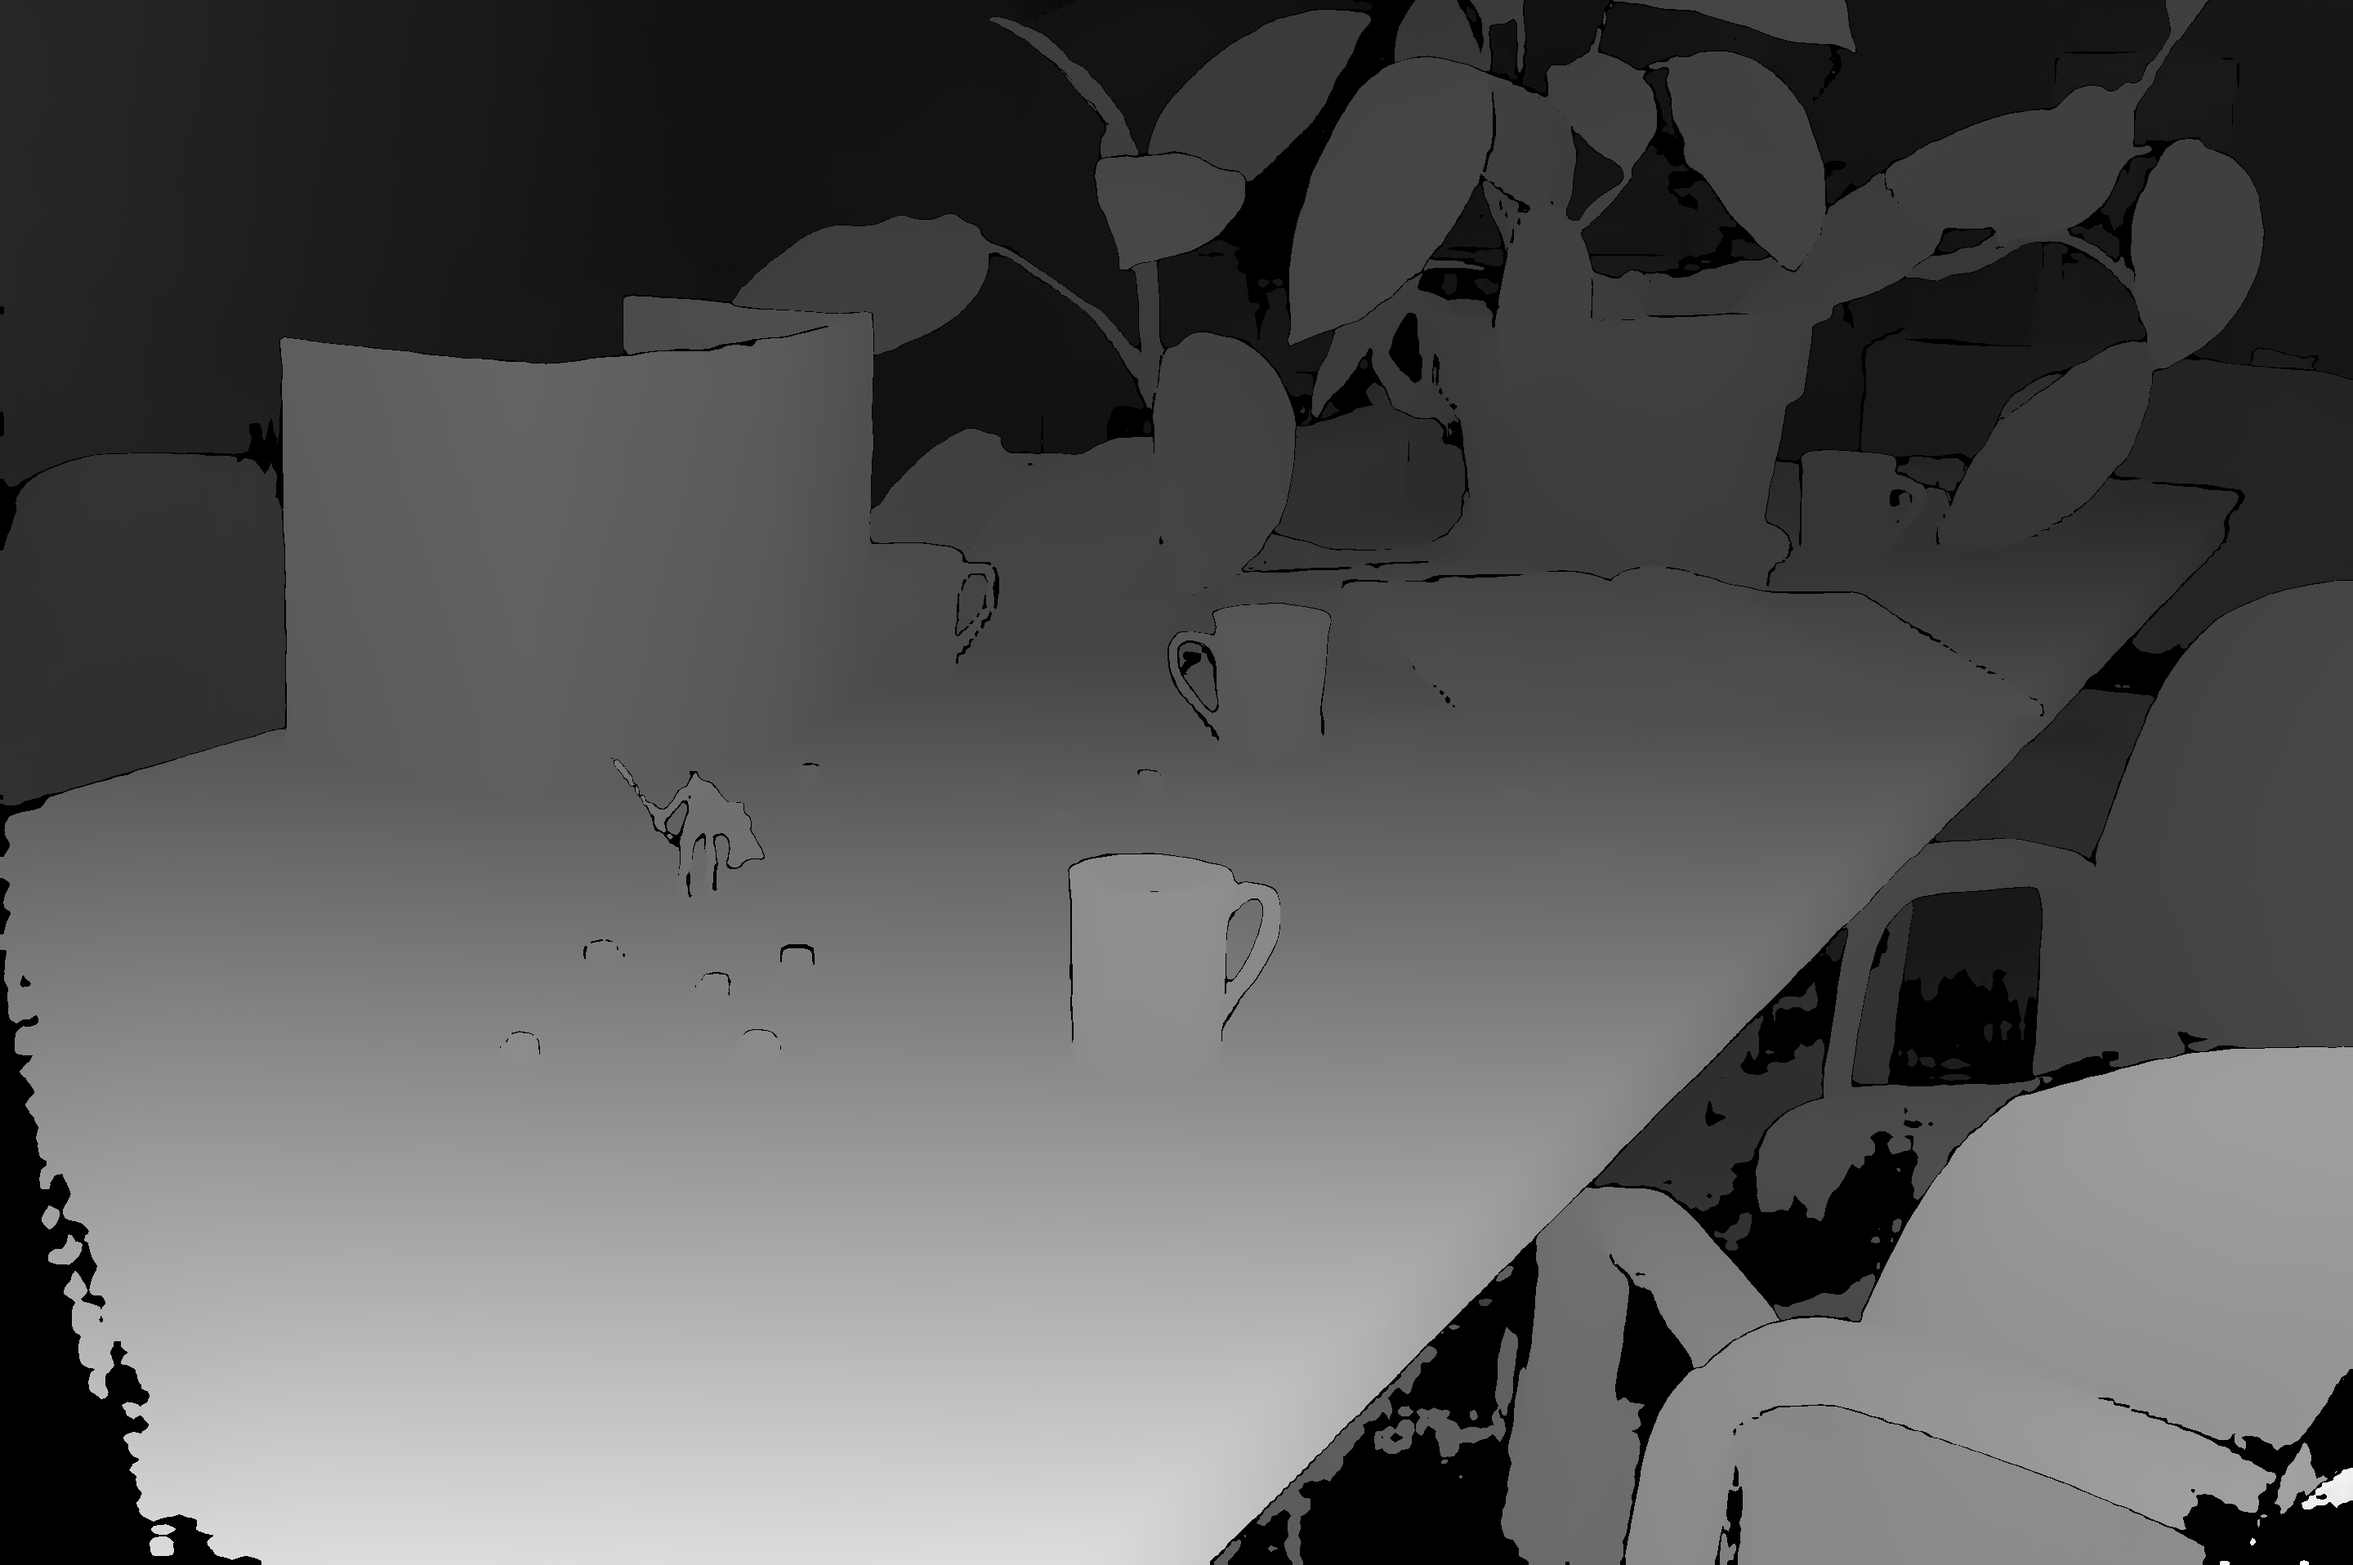
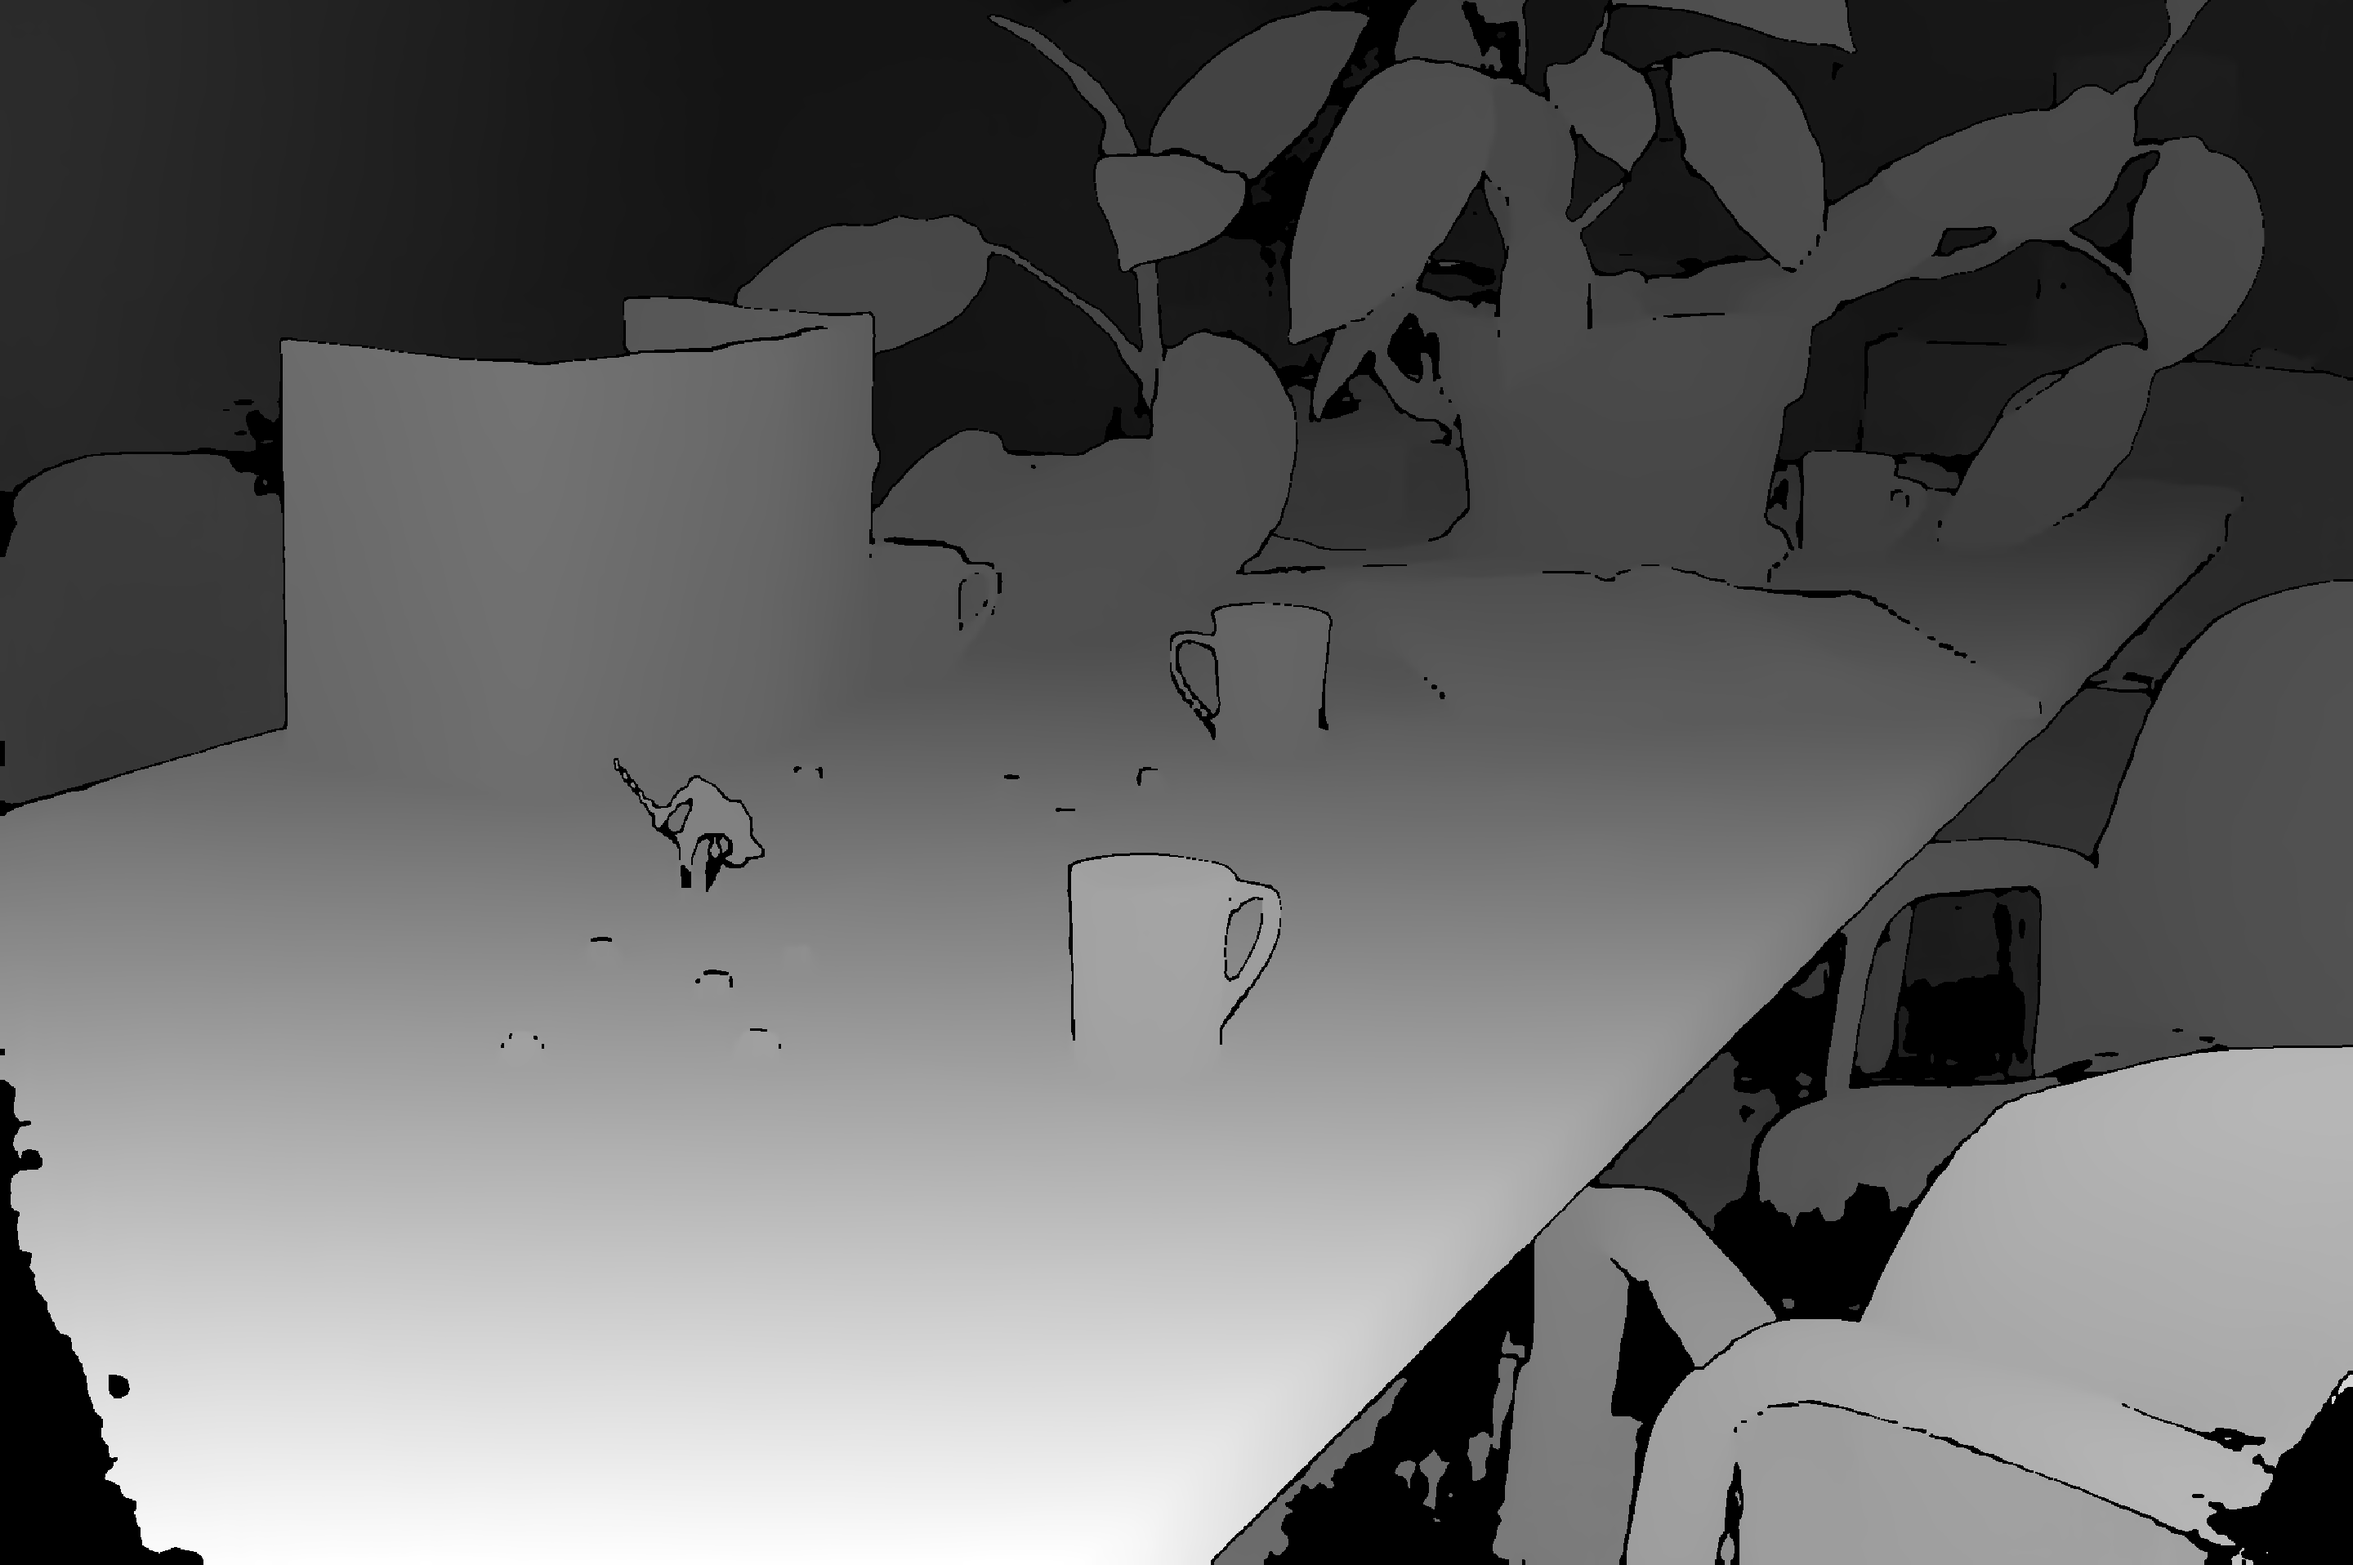
fix visualization bug and reference

diff --git a/submission.py b/submission.py
@@ -137,7 +137,7 @@ def main():
         pred_disp = cv2.resize(pred_disp/args.testres,(imgsize[1],imgsize[0]),interpolation=cv2.INTER_LINEAR)
 
         # clip while keep inf
-        invalid = pred_disp == np.inf
+        invalid = np.logical_or(pred_disp == np.inf,pred_disp!=pred_disp)
         pred_disp[invalid] = np.inf
 
         np.save('%s/%s-disp.npy'% (args.outdir, idxname.split('/')[0]),(pred_disp))

diff --git a/README.md b/README.md
@@ -41,11 +41,12 @@ And use [cvkit](https://github.com/roboception/cvkit) to visualize in 3D.
 
 ## Citation
 ```
-@InProceedings{Yang2019HSM,
-  author    = {Gengshan Yang and Joshua Manela and Michael Happold and Deva Ramanan},
-  title     = {Hierarchical Deep Stereo Matching on High-resolution Images},
-  booktitle = {CVPR},
-  year      = {2019},
+@InProceedings{Yang_2019_CVPR,
+author = {Yang, Gengshan and Manela, Joshua and Happold, Michael and Ramanan, Deva},
+title = {Hierarchical Deep Stereo Matching on High-Resolution Images},
+booktitle = {The IEEE Conference on Computer Vision and Pattern Recognition (CVPR)},
+month = {June},
+year = {2019}
 }
 ```
 
